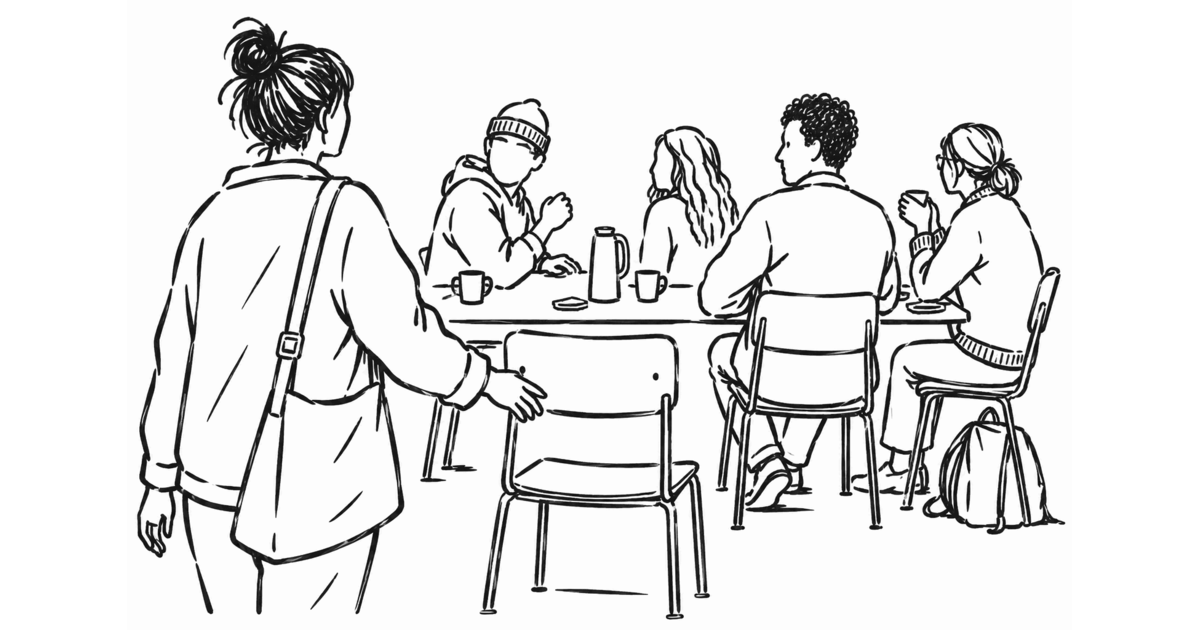
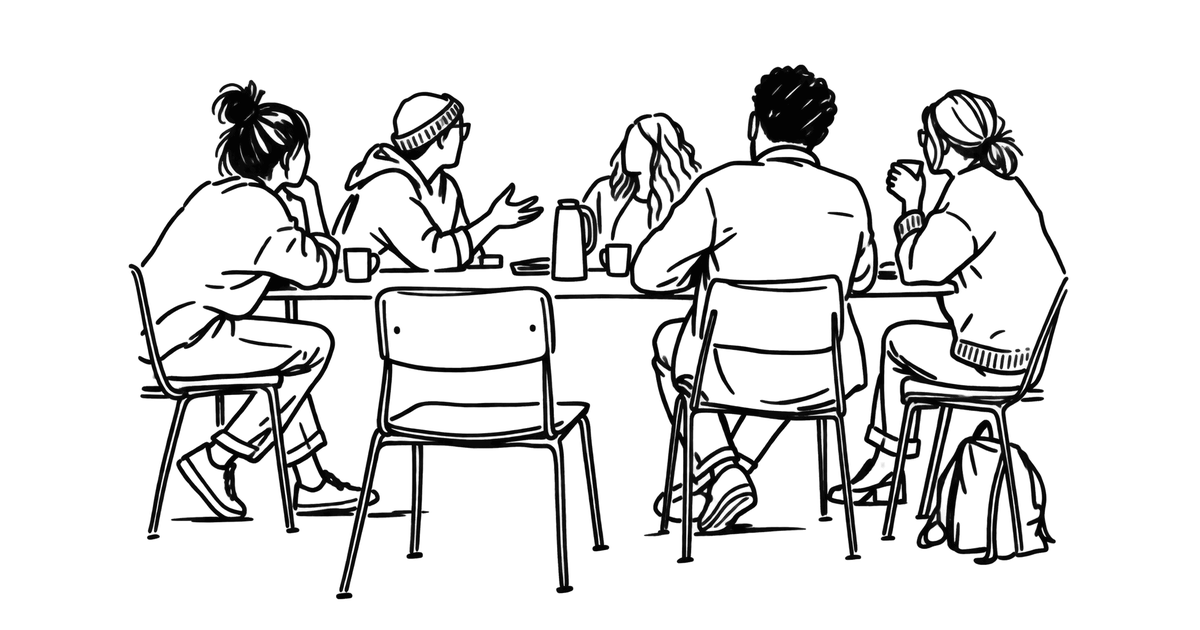
Trey's L1, L2, L5 art live on the homepage; social preview regenerated

Changed region(s): [[0.0925, 0.0302, 0.8942, 0.9952], [0.1542, 0.9048, 0.185, 0.9651]]

diff --git a/index.html b/index.html
@@ -10,7 +10,7 @@
 <meta property="og:description" content="Pull up a seat for the most decent conversation you'll have all week. Wednesdays, 7:15 a.m., Greensboro. Since 2015.">
 <meta property="og:type" content="website">
 <meta property="og:url" content="https://adecentconversation.com/">
-<!-- F2: L1 placeholder fit to 1200x630 on white; regenerate when final L1 lands -->
+<!-- F2: L1 fit to 1200x630 on white; regenerated 8/27/26 from Trey's L1 art -->
 <meta property="og:image" content="/img/social-preview.png">
 
 <!--
@@ -23,7 +23,7 @@
   [x] Web3Forms access key — form moved to /contact, key set there
   [x] /principles page exists (linked from principles section + footer)
   [x] /history page exists (linked from footer)
-  [~] Illustrations: L1 placeholder PNG in; L2, L3, L5 pending (see img/shot-list.md)
+  [~] Illustrations: L1, L2, L5 PNGs in; L3 pending (see img/shot-list.md)
   [ ] F1 favicon pending; F2 social preview generated from L1
 
   CONSENT (all now relevant to /history, not this page)
@@ -283,9 +283,7 @@
 
   .ph span { max-width: 34ch; }
 
-  .ph-l2 { aspect-ratio: 1 / 1; }
   .ph-l3 { aspect-ratio: 5 / 1; }
-  .ph-l5 { aspect-ratio: 2 / 3; }
 
   /* ---- Two-up: copy beside a small plate ---- */
   .duo {
@@ -440,9 +438,9 @@
     </p>
 
     <figure class="plate">
-      <!-- L1 placeholder PNG (3:2; final spec is 16:7 SVG — see img/shot-list.md) -->
+      <!-- L1 PNG (3:2; final spec is 16:7 SVG — see img/shot-list.md) -->
       <img class="ink" src="/img/L1.png" width="1536" height="1024"
-        alt="Four people mid-conversation around a table; a fifth arriving, hand on an empty chair pulled out nearest the viewer.">
+        alt="Five people talking around a table, with one chair pulled out and empty.">
     </figure>
   </section>
 
@@ -470,11 +468,9 @@
     </div>
 
     <figure class="plate">
-      <!-- L2 — replace with: <img src="/img/L2.svg" alt="A person seen from behind, forearms on a table, leaning in to listen."> -->
-      <div class="ph ph-l2" role="img" aria-label="Illustration: a person seen from behind, forearms on a table, leaning in to listen.">
-        <b>L2 — THE LISTENER</b>
-        <span>Single figure from behind, leaning slightly in. 1:1</span>
-      </div>
+      <!-- L2 PNG (3:2; shot-list spec is 1:1 single figure — Trey assigned this art here) -->
+      <img class="ink" src="/img/L2.png" width="1536" height="1024"
+        alt="Four people mid-conversation around a table, seen from behind, one mid-gesture.">
     </figure>
   </section>
 
@@ -544,11 +540,9 @@
     </div>
 
     <figure class="plate">
-      <!-- L5 — replace with: <img src="/img/L5.svg" alt="A person standing at the edge of the frame, coat still on, about to sit down at an occupied table."> -->
-      <div class="ph ph-l5" role="img" aria-label="Illustration: a person standing at the edge of the frame, coat still on, about to sit down at an occupied table.">
-        <b>L5 — ARRIVING</b>
-        <span>Figure from behind, standing, coat on, table beyond. 2:3</span>
-      </div>
+      <!-- L5 PNG (3:2; shot-list spec is 2:3 portrait — Trey's art) -->
+      <img class="ink" src="/img/L5.png" width="1536" height="1024"
+        alt="A person with a bag over one shoulder, about to sit down at an occupied table.">
     </figure>
   </section>
 
